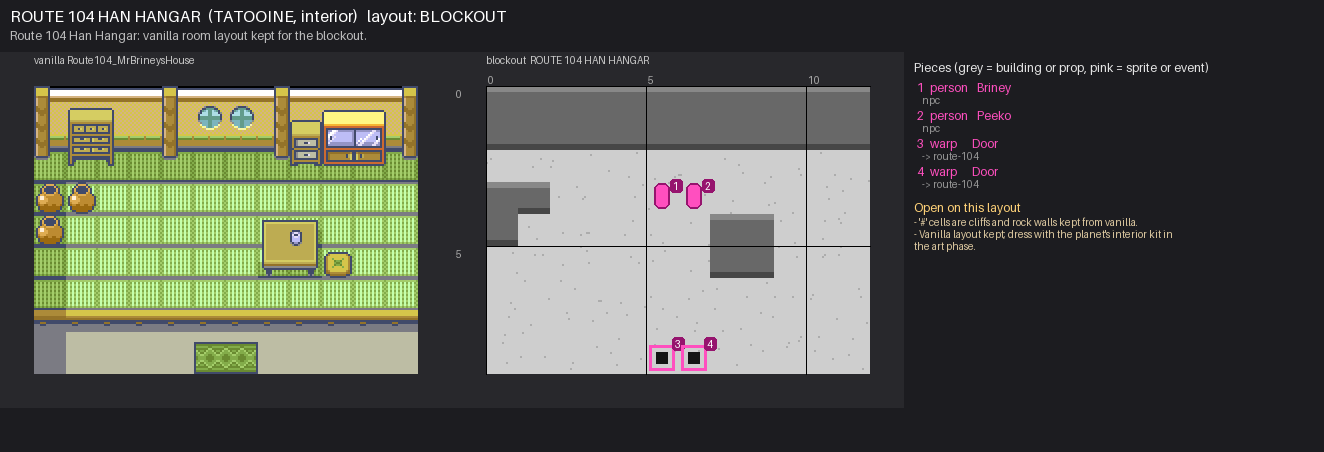
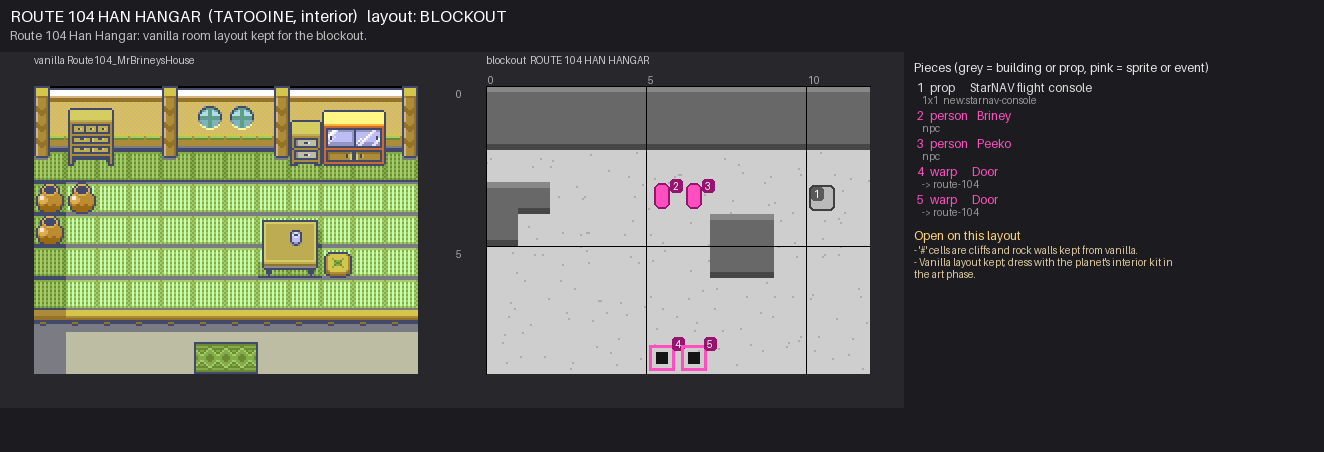
world: ship props in every hangar room (player-ship and docked-ship rows), consoles in the harbour rooms; README rules for hangar paths and dead ground

diff --git a/wiki/world/README.md b/wiki/world/README.md
@@ -54,13 +54,18 @@ progress. The wiki is the one list: no separate to-do docs.
   link them (hangars, docking bays, shuttles) along the planet graph in `../mapping/hyperlanes.csv`: one row
   per edge, naming the overworld area and ship room at each end and the unlock. A hangar is a building
   on the main road at the edge of the planet that faces the destination (where the vanilla road left the map),
-  with a sign beside its door, so the player walks straight into it. A ship room's StarNAV console lists
-  the unlocked edges from that room. `blockout check` fails if an edge lacks a door, a way back or a sign,
+  with a sign beside its door and a marked path (`:` cells) from the door to the nearest road or exit, so the
+  player walks straight into it. Inside, every ship room has the ship itself as a prop (`art:new:player-ship` in
+  the new hangars, `art:new:docked-ship` at the harbour docks) and a StarNAV console that lists the unlocked
+  edges from that room. `blockout check` fails if an edge lacks a door, a way back or a sign,
   or a planet has no edge; `blockout guide` lists the graph and the badges held on first landing. `blockout layout <PLANET>` fits a planet's towns, routes and
   landmarks together from their exits and writes each area's `pos`; it reports exits with no way back,
   loops that do not close and overlaps.
 - Towns can be bigger and any shape (owner, 2026-11-02): GBA storage is no longer the limit, but walks
   must stay short. Optional side areas are welcome; they use the characters already in the wiki.
+- **Open ground earns its place.** A town's `.` cells more than three cells from any road, building, prop or
+  person are dead space: pull the cliff or tree border in over them (done for Ilum and Dagobah, 2026-11-02)
+  or put something there.
 - **Compact towns (template: [`kashyyyk/kachirho.yaml`](kashyyyk/kachirho.yaml), 2026-11-02).** A town that
   replaces a 20x20 vanilla town is about 32x28: one main road between its exits, a short spur to every
   hangar door, every door within a few steps of a road, buildings in two rows either side, props only at the
